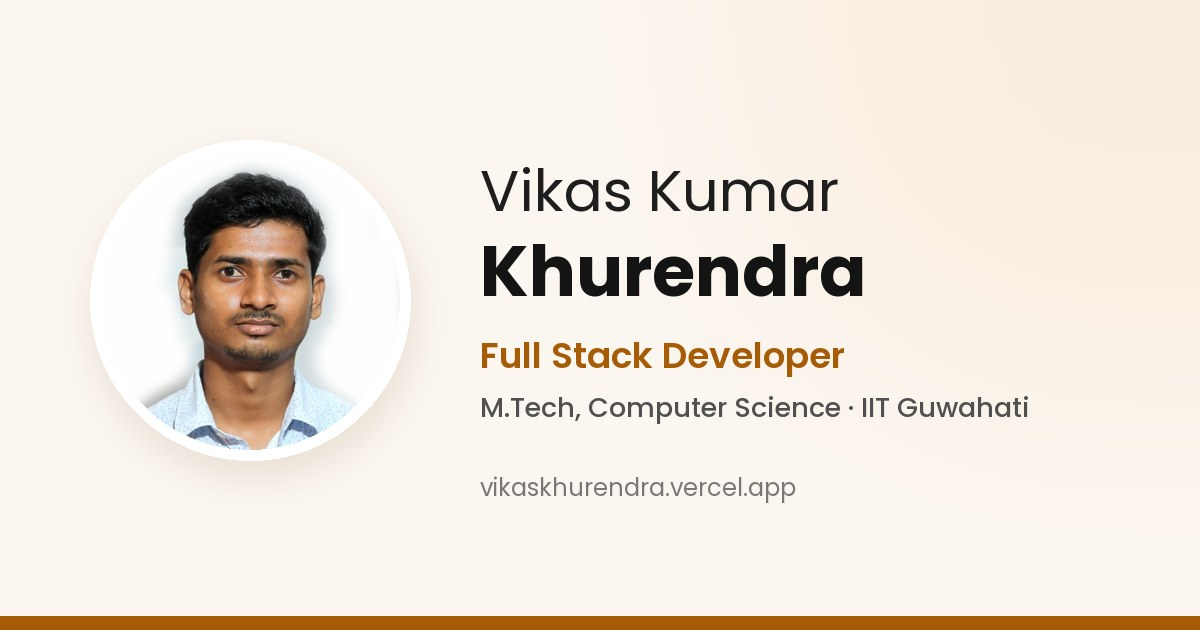
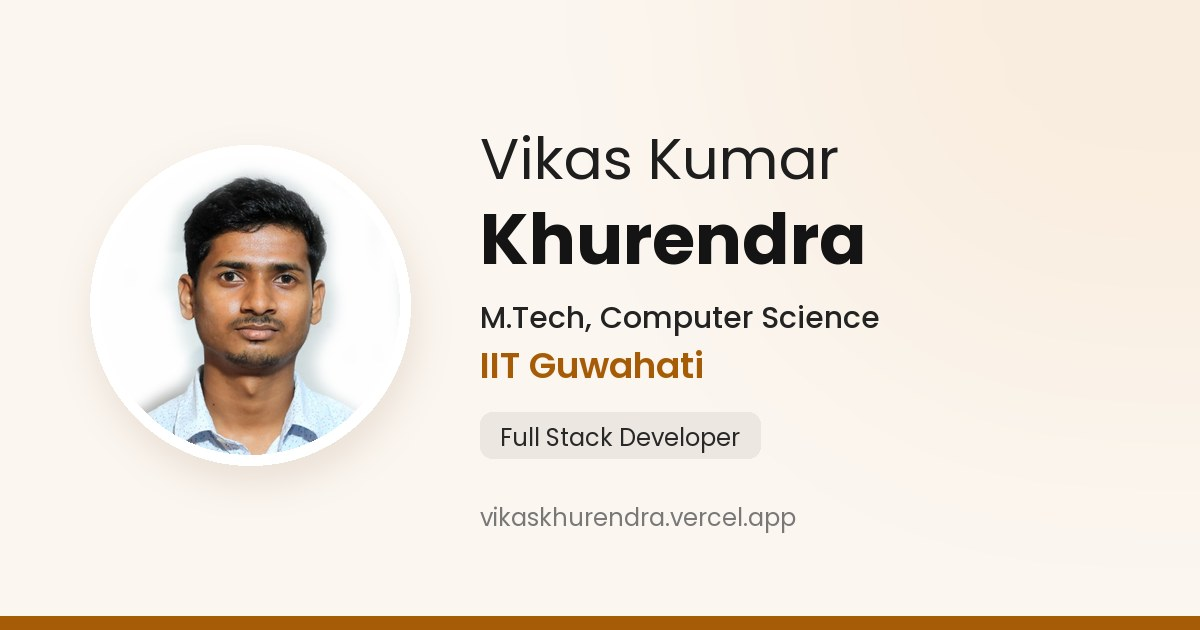
Preview card: put IIT Guwahati below the degree, like the sidebar

diff --git a/index.html b/index.html
@@ -18,8 +18,8 @@
   <meta property="og:title" content="Vikas Kumar Khurendra · Full Stack Developer">
   <meta property="og:description" content="Full stack developer building React interfaces and Node.js APIs. M.Tech in Computer Science, IIT Guwahati. Projects, experience and contact.">
   <meta property="og:url" content="https://vikaskhurendra.vercel.app/">
-  <meta property="og:image" content="https://vikaskhurendra.vercel.app/assets/images/og-image.jpg">
-  <meta property="og:image:secure_url" content="https://vikaskhurendra.vercel.app/assets/images/og-image.jpg">
+  <meta property="og:image" content="https://vikaskhurendra.vercel.app/assets/images/og-image.jpg?v=2">
+  <meta property="og:image:secure_url" content="https://vikaskhurendra.vercel.app/assets/images/og-image.jpg?v=2">
   <meta property="og:image:type" content="image/jpeg">
   <meta property="og:image:width" content="1200">
   <meta property="og:image:height" content="630">
@@ -27,7 +27,7 @@
   <meta name="twitter:card" content="summary_large_image">
   <meta name="twitter:title" content="Vikas Kumar Khurendra · Full Stack Developer">
   <meta name="twitter:description" content="Full stack developer building React interfaces and Node.js APIs. M.Tech in Computer Science, IIT Guwahati.">
-  <meta name="twitter:image" content="https://vikaskhurendra.vercel.app/assets/images/og-image.jpg">
+  <meta name="twitter:image" content="https://vikaskhurendra.vercel.app/assets/images/og-image.jpg?v=2">
   <meta name="twitter:image:alt" content="Vikas Kumar Khurendra, Full Stack Developer, M.Tech Computer Science, IIT Guwahati">
 
   <!--
